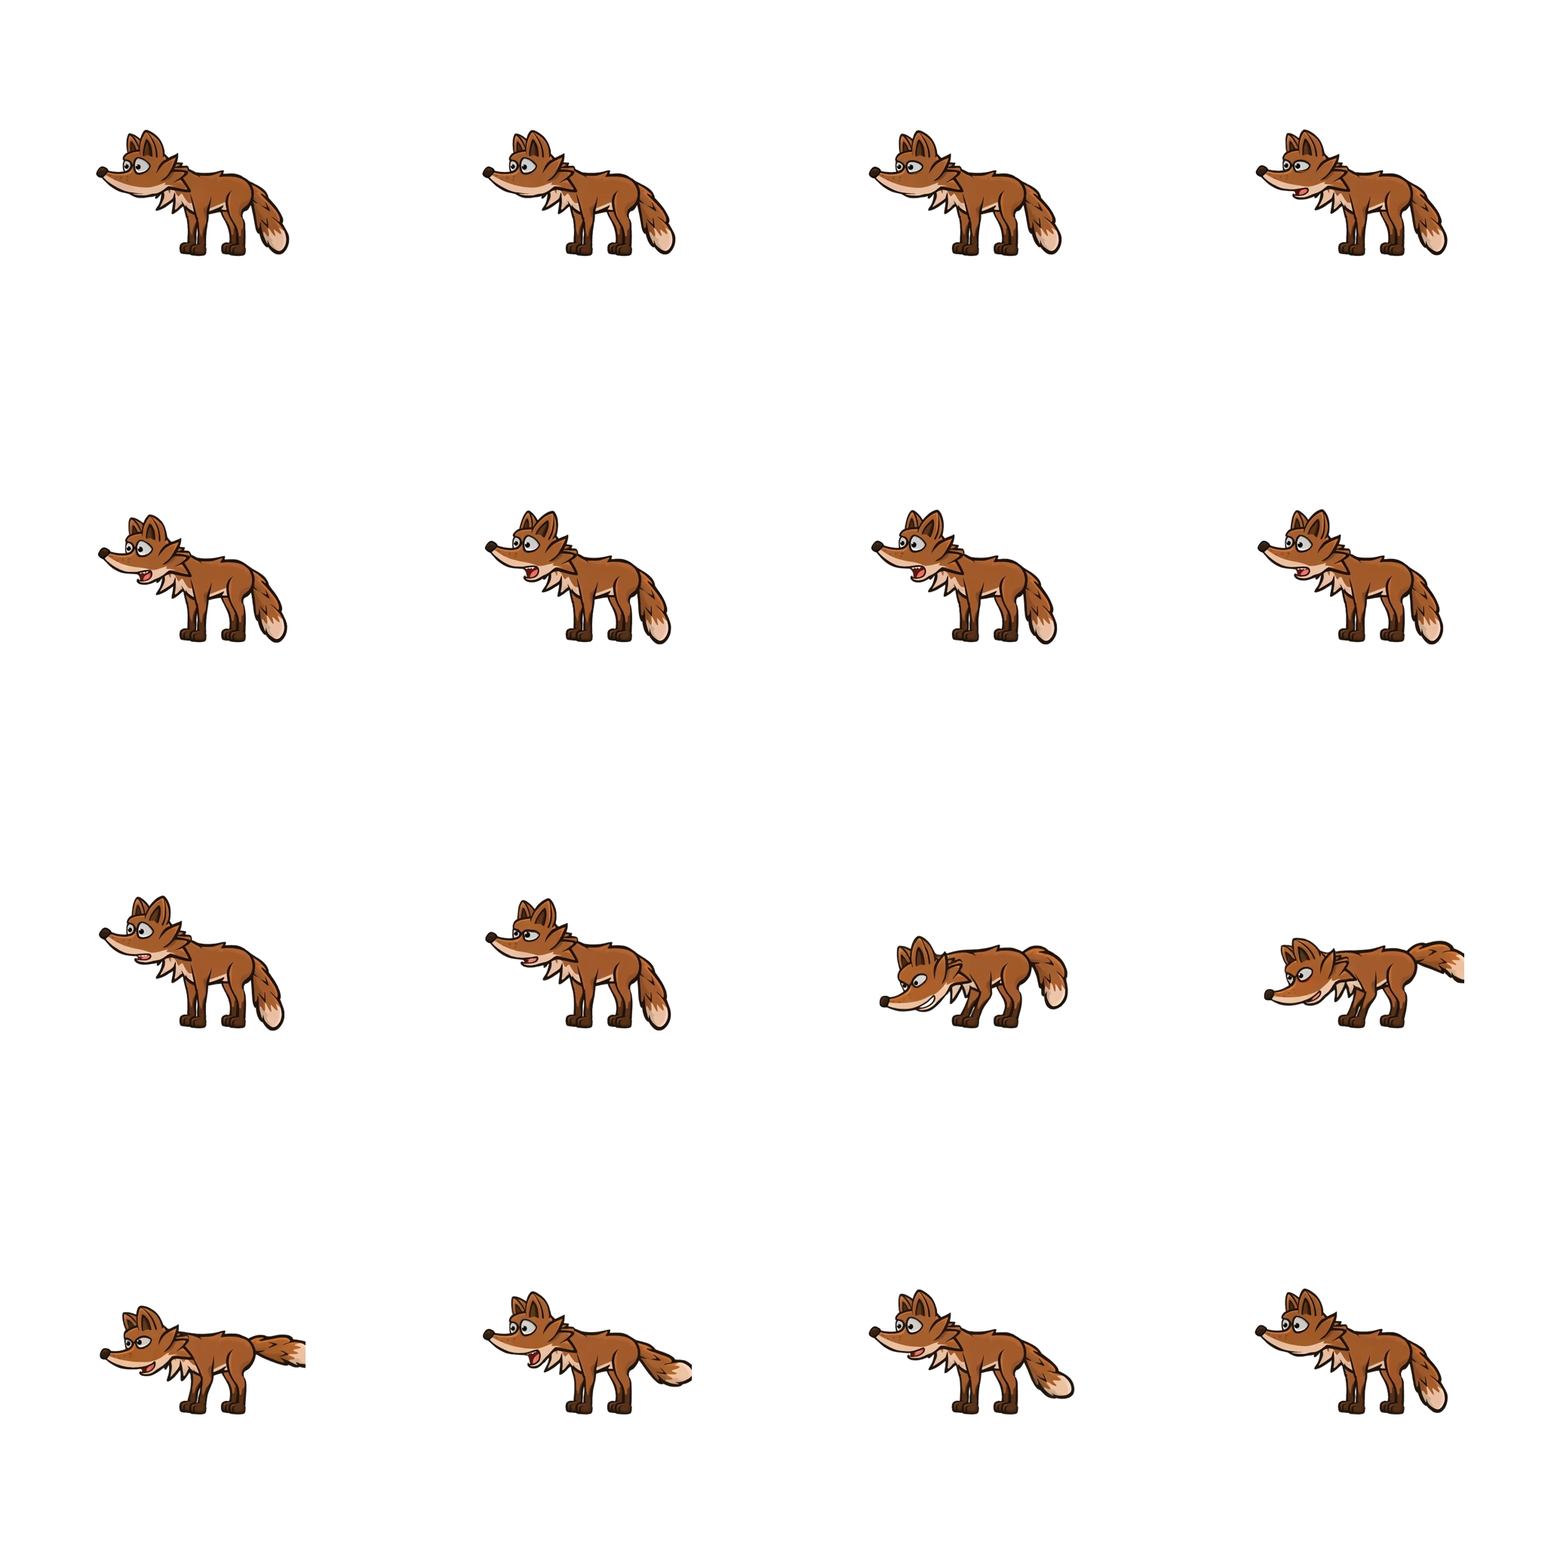
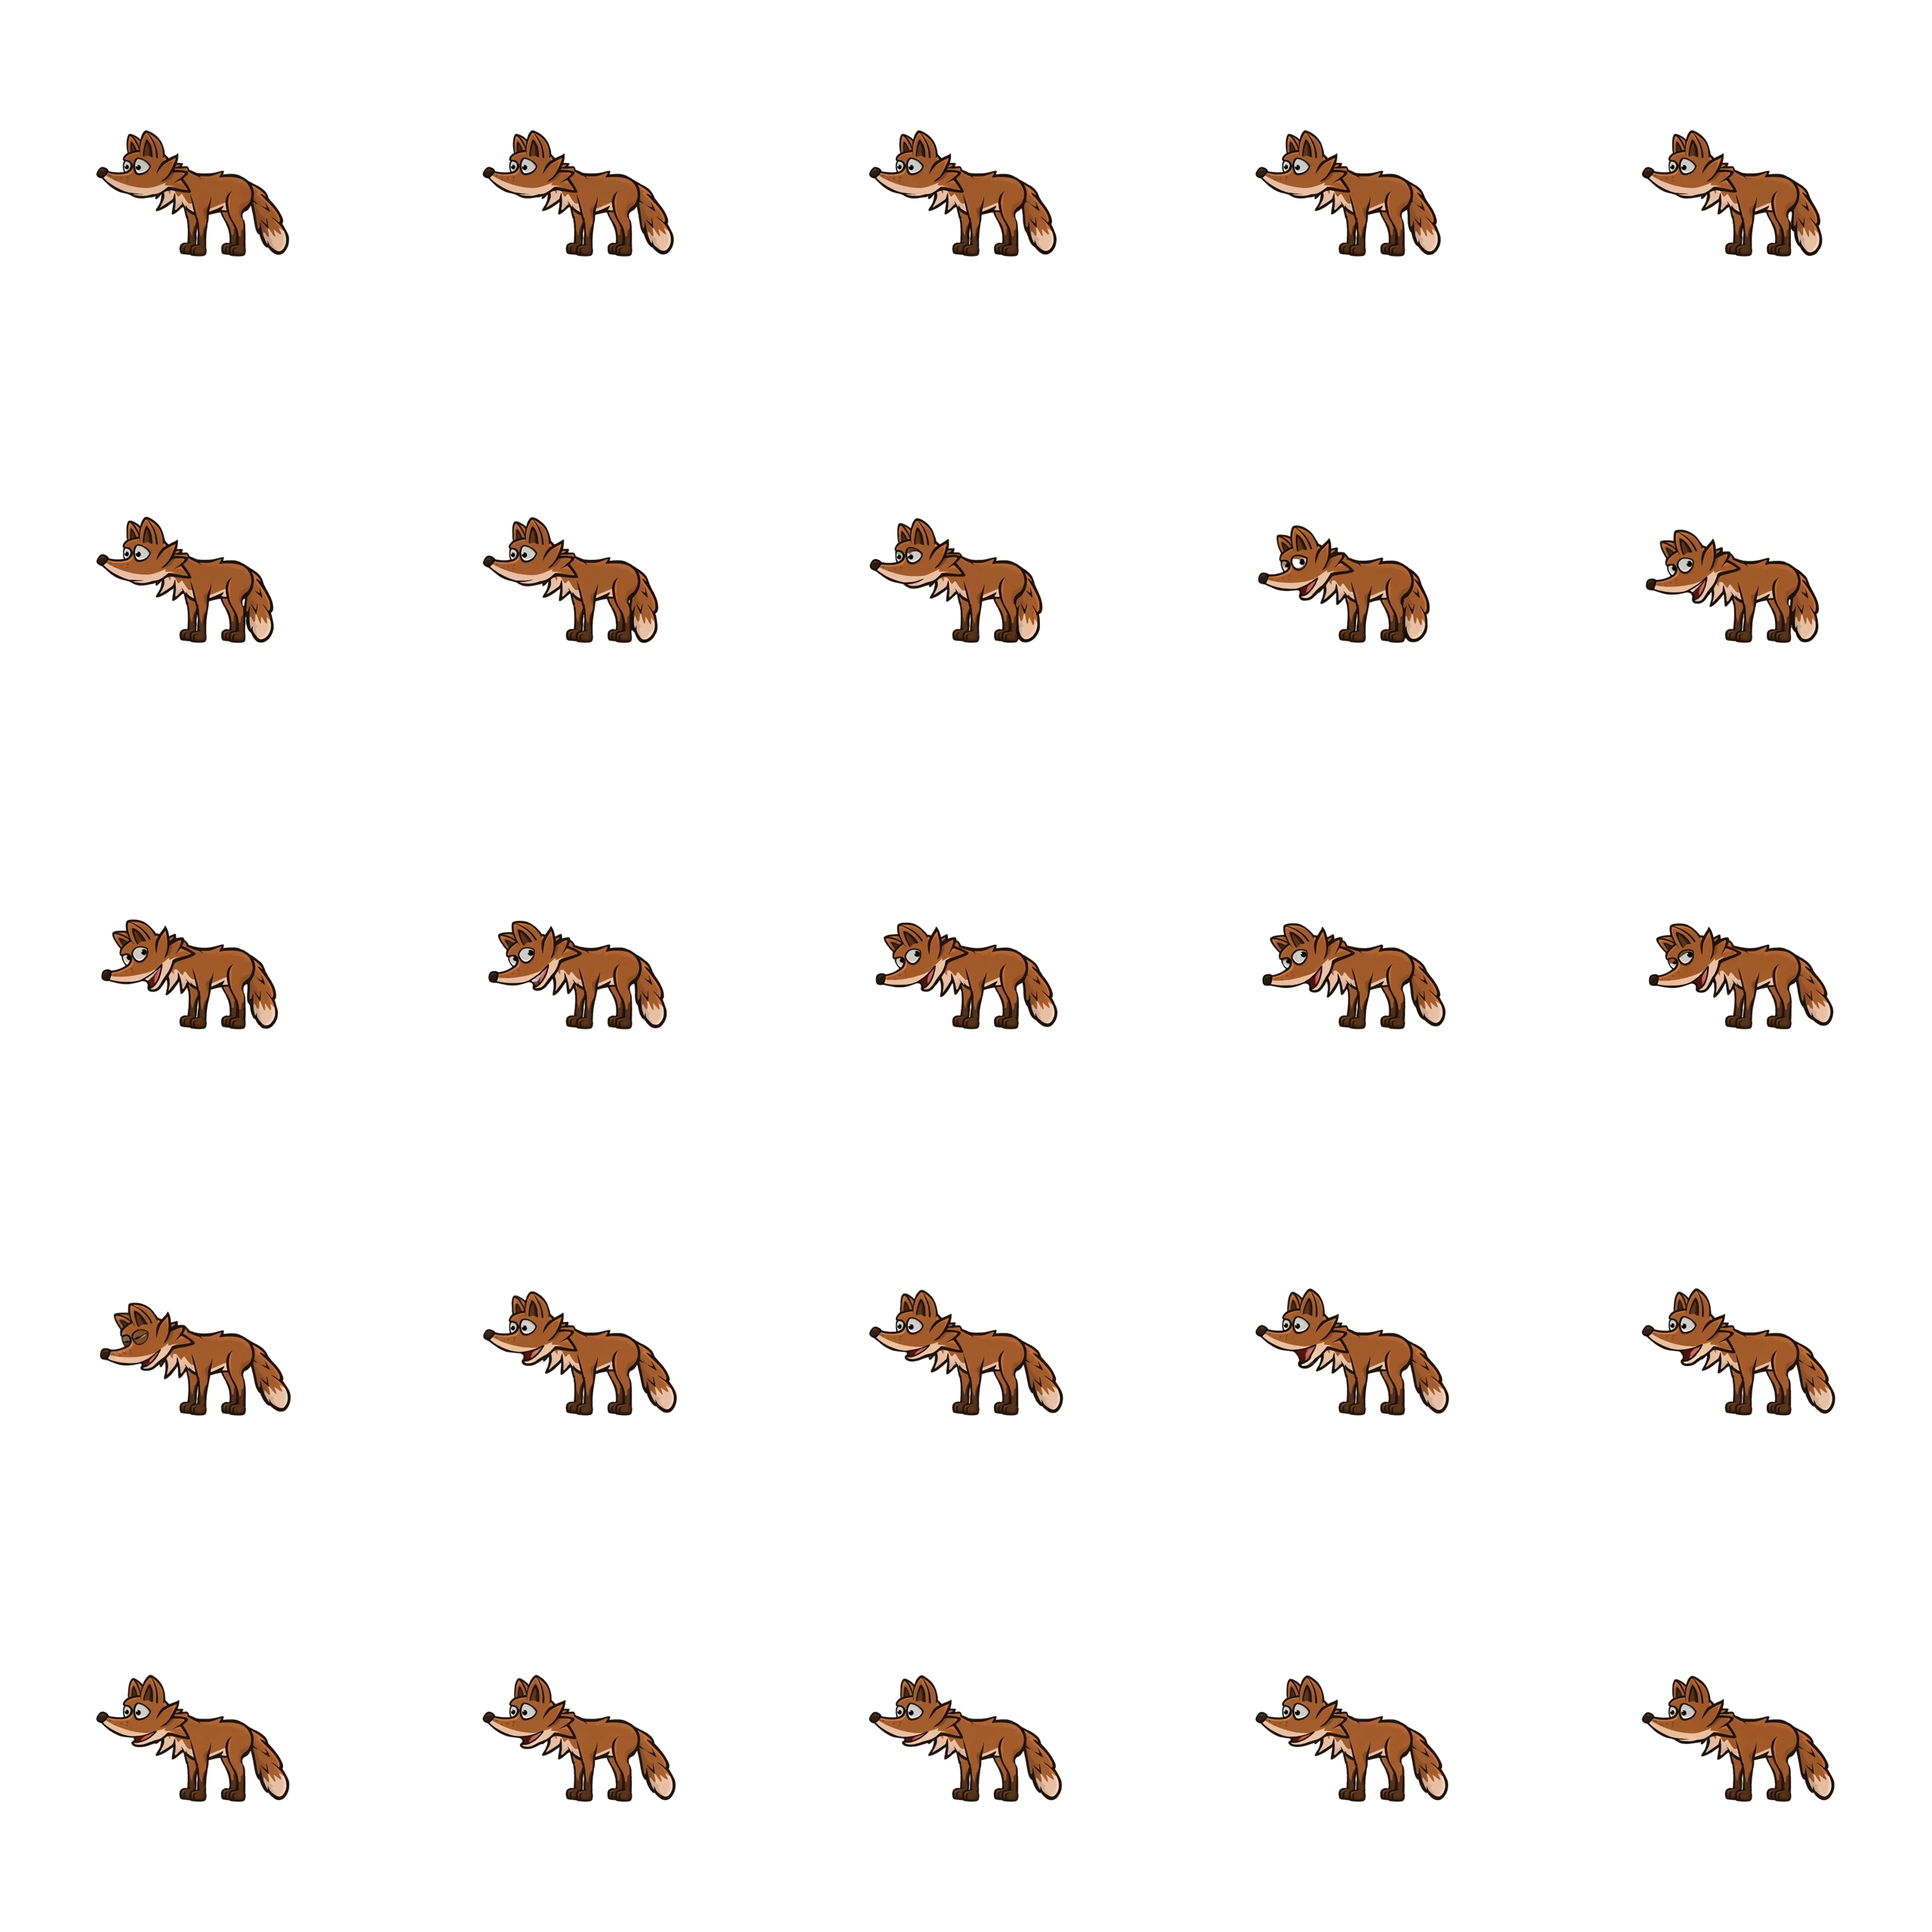
fix(animals): play generated clips at the speed they were generated
Reported as Cass's sneaky clip moving in a rush. It was not that clip: every
generated clip in the project was playing 1.5x too fast.

The API is asked for `duration` seconds of motion sampled into `frames` frames, so
the only rate that reproduces the intended speed is frames/duration. The manifest
hard-coded 12fps to match the hand-authored atlas clips, which crammed 16 frames
of a 2s motion into 1.33s. It is invisible in a spritesheet and only shows on
playback, so all fifteen promoted clips shipped that way.

`playbackFrameRate()` now derives the rate and the manifest sets none. Defaults
move to 25 frames over 2s, landing on ~12.5fps — correctly paced and still close
to the atlas tempo, where keeping 16 frames would have forced a choppy 8fps. Frame
count does not affect cost, so the extra smoothness is free.

The fifteen existing clips are corrected in place to their true 8fps via a new
`--reindex`, which rebuilds the generated module from `promoted-clips.json` with
no API calls. Correct speed now, at 16 frames of resolution; regenerating them at
25 frames would buy back the smoothness for 4 credits each.

Also regenerates fox/sneaky, which additionally had its tail drawn truncated in
the low-slink frames — measured first, and nothing was near the cell edge, so this
was the generator drawing it badly rather than the sheet cropping it. The prompt
now pins the tail's full shape explicitly and asks for one continuous unhurried
[…]

diff --git a/src/phaser/animals/emotionSheets.generated.ts b/src/phaser/animals/emotionSheets.generated.ts
@@ -25,7 +25,7 @@ export const EMOTION_SHEETS: Partial<
       frameWidth: 512,
       frameHeight: 512,
       frameCount: 16,
-      frameRate: 12,
+      frameRate: 8,
       scale: 2.0584,
       originX: 0.5384,
       originY: 0.7933,
@@ -35,7 +35,7 @@ export const EMOTION_SHEETS: Partial<
       frameWidth: 512,
       frameHeight: 512,
       frameCount: 16,
-      frameRate: 12,
+      frameRate: 8,
       scale: 2.0268,
       originX: 0.5332,
       originY: 0.7922,
@@ -45,7 +45,7 @@ export const EMOTION_SHEETS: Partial<
       frameWidth: 512,
       frameHeight: 512,
       frameCount: 16,
-      frameRate: 12,
+      frameRate: 8,
       scale: 2.177,
       originX: 0.5266,
       originY: 0.7884,
@@ -55,7 +55,7 @@ export const EMOTION_SHEETS: Partial<
       frameWidth: 512,
       frameHeight: 512,
       frameCount: 16,
-      frameRate: 12,
+      frameRate: 8,
       scale: 2.1331,
       originX: 0.5361,
       originY: 0.7894,
@@ -65,7 +65,7 @@ export const EMOTION_SHEETS: Partial<
       frameWidth: 512,
       frameHeight: 512,
       frameCount: 16,
-      frameRate: 12,
+      frameRate: 8,
       scale: 2.0584,
       originX: 0.5257,
       originY: 0.7933,
@@ -77,7 +77,7 @@ export const EMOTION_SHEETS: Partial<
       frameWidth: 512,
       frameHeight: 512,
       frameCount: 16,
-      frameRate: 12,
+      frameRate: 8,
       scale: 2.3155,
       originX: 0.5723,
       originY: 0.7265,
@@ -87,7 +87,7 @@ export const EMOTION_SHEETS: Partial<
       frameWidth: 512,
       frameHeight: 512,
       frameCount: 16,
-      frameRate: 12,
+      frameRate: 8,
       scale: 2.3018,
       originX: 0.5472,
       originY: 0.7269,
@@ -96,18 +96,18 @@ export const EMOTION_SHEETS: Partial<
       file: 'fox-sneaky.png',
       frameWidth: 512,
       frameHeight: 512,
-      frameCount: 16,
-      frameRate: 12,
-      scale: 2.1492,
-      originX: 0.5659,
-      originY: 0.7372,
+      frameCount: 25,
+      frameRate: 13,
+      scale: 2.3018,
+      originX: 0.5443,
+      originY: 0.7269,
     },
     talking: {
       file: 'fox-talking.png',
       frameWidth: 512,
       frameHeight: 512,
       frameCount: 16,
-      frameRate: 12,
+      frameRate: 8,
       scale: 2.2616,
       originX: 0.545,
       originY: 0.7299,
@@ -117,7 +117,7 @@ export const EMOTION_SHEETS: Partial<
       frameWidth: 512,
       frameHeight: 512,
       frameCount: 16,
-      frameRate: 12,
+      frameRate: 8,
       scale: 2.3155,
       originX: 0.5635,
       originY: 0.7265,
@@ -129,7 +129,7 @@ export const EMOTION_SHEETS: Partial<
       frameWidth: 512,
       frameHeight: 512,
       frameCount: 16,
-      frameRate: 12,
+      frameRate: 8,
       scale: 2.2129,
       originX: 0.5019,
       originY: 0.75,
@@ -139,7 +139,7 @@ export const EMOTION_SHEETS: Partial<
       frameWidth: 512,
       frameHeight: 512,
       frameCount: 16,
-      frameRate: 12,
+      frameRate: 8,
       scale: 2.1476,
       originX: 0.4931,
       originY: 0.75,
@@ -149,7 +149,7 @@ export const EMOTION_SHEETS: Partial<
       frameWidth: 512,
       frameHeight: 512,
       frameCount: 16,
-      frameRate: 12,
+      frameRate: 8,
       scale: 2.2045,
       originX: 0.4999,
       originY: 0.75,
@@ -159,7 +159,7 @@ export const EMOTION_SHEETS: Partial<
       frameWidth: 512,
       frameHeight: 512,
       frameCount: 16,
-      frameRate: 12,
+      frameRate: 8,
       scale: 2.1962,
       originX: 0.5009,
       originY: 0.75,
@@ -169,7 +169,7 @@ export const EMOTION_SHEETS: Partial<
       frameWidth: 512,
       frameHeight: 512,
       frameCount: 16,
-      frameRate: 12,
+      frameRate: 8,
       scale: 2.2299,
       originX: 0.4901,
       originY: 0.752,

diff --git a/.claude/skills/animal-emotion-sprites/SKILL.md b/.claude/skills/animal-emotion-sprites/SKILL.md
@@ -44,7 +44,8 @@ npm run sprites:emotions -- --promote
 
 Flags: `--animal a,b` and `--emotion x,y` restrict scope (default: everything in the
 manifest). `--force` regenerates a clip that already exists locally **and** bypasses the API's
-result cache — see "request_id is an idempotency key" below.
+result cache — see "request_id is an idempotency key" below. `--reindex` rebuilds the generated
+module from `promoted-clips.json` alone, with no review dir and no API calls.
 
 Generation and promotion are separate on purpose: diffusion output is not deterministic and
 not always usable, so nothing reaches `public/assets/` without a human having watched it loop.
@@ -57,6 +58,24 @@ it via Node's `--env-file-if-exists`). An exported shell variable works too.
 **Never name it `VITE_LUDO_API_KEY`** — Vite inlines every `VITE_`-prefixed variable into the
 client bundle, publishing the key to anyone who opens the game.
 
+## Playback speed: `frames / duration`, never a hard-coded rate
+
+The API is asked for `duration` seconds of motion sampled into `frames` frames, so the **only**
+rate that plays a clip at the speed it was generated is `frames / duration`. `playbackFrameRate()`
+derives it; the manifest sets no `frameRate` at all.
+
+This was originally hard-coded to 12 to match the hand-authored atlas clips, which silently ran
+every generated clip **1.5× too fast** — 16 frames of a 2s motion crammed into 1.33s. It reads
+as rushed and it is invisible in a spritesheet; only playback shows it. The first fifteen clips
+shipped that way before it was caught.
+
+Hence the defaults: **25 frames over 2 seconds**, landing on ~12.5fps — correctly paced *and*
+close to the atlas tempo, where 16 frames would have forced a choppy 8fps. Frame count does not
+affect cost (credits are `duration × model rate`), so more frames is free smoothness.
+
+If you inherit clips at the wrong rate, fix `frameRate` in `promoted-clips.json` and run
+`--reindex`. No credits, no regeneration.
+
 ## Reading the quality numbers
 
 Generation prints three metrics per clip, and they are also stored in each clip's `meta.json`
@@ -68,6 +87,11 @@ see in a single loop and obvious once the clip is in the game.
 | `loop seam` | 2% | Last frame differs from the first, so it jumps on every repeat | Confirm `closeLoop` is on; regenerate with `--force` |
 | `height swing` | 20% | Character's height wanders across frames | Check it is motion (a head dipping) and not a pose collapse (lying down). See the prompt rules |
 | `drift ±px` | 20px | Character slides horizontally | Add "in place, no travel" emphasis; regenerate |
+
+A clip can also be **rushed without tripping any of these** — the metrics measure the frames,
+not the tempo. If motion looks hurried or snaps between poses, check the frame rate maths above
+first, then ask the prompt for "ONE slow continuous glide from start to finish, no sudden jumps,
+no fast beats".
 
 These are thresholds for *attention*, not rejection. A clip can exceed one and still be the
 right clip — `sneaky` legitimately swings 28% because the donkey's head dips a long way.
